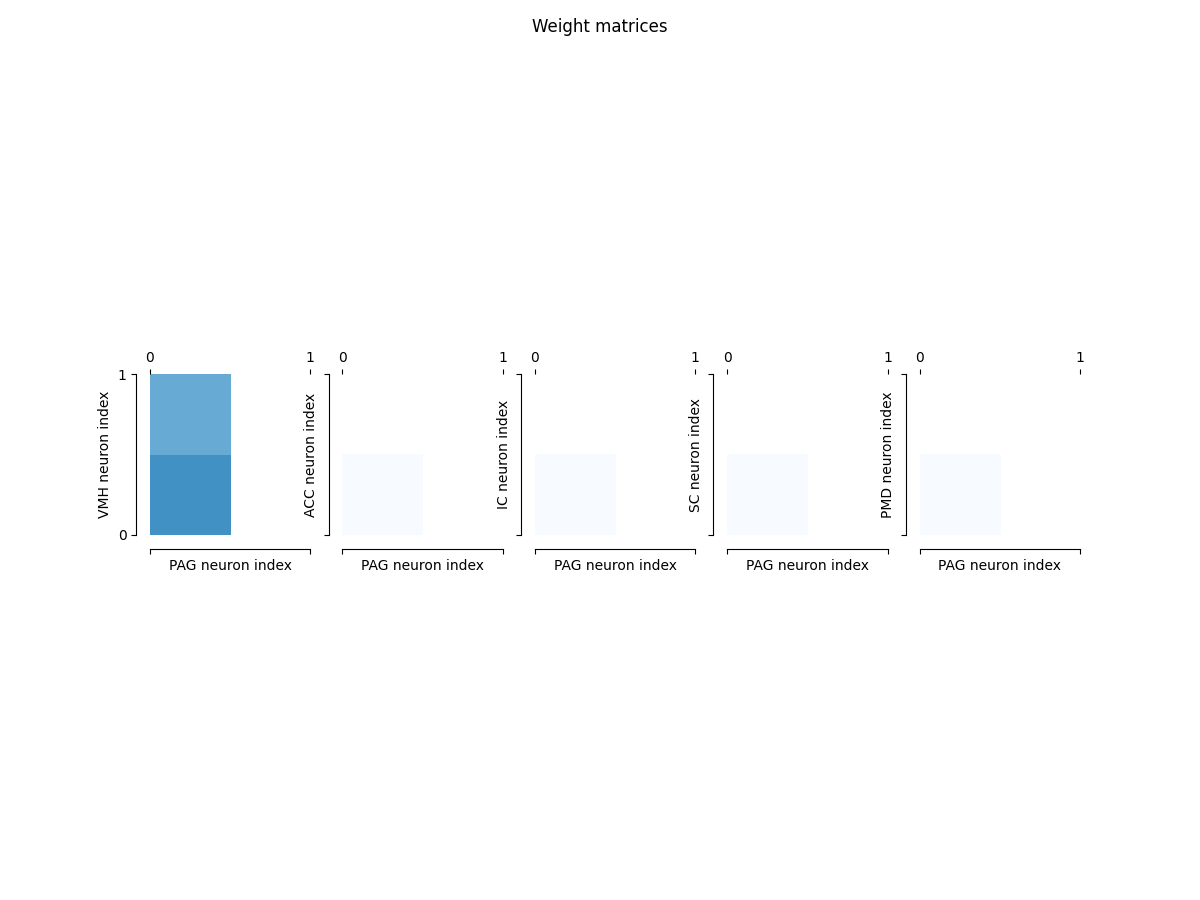
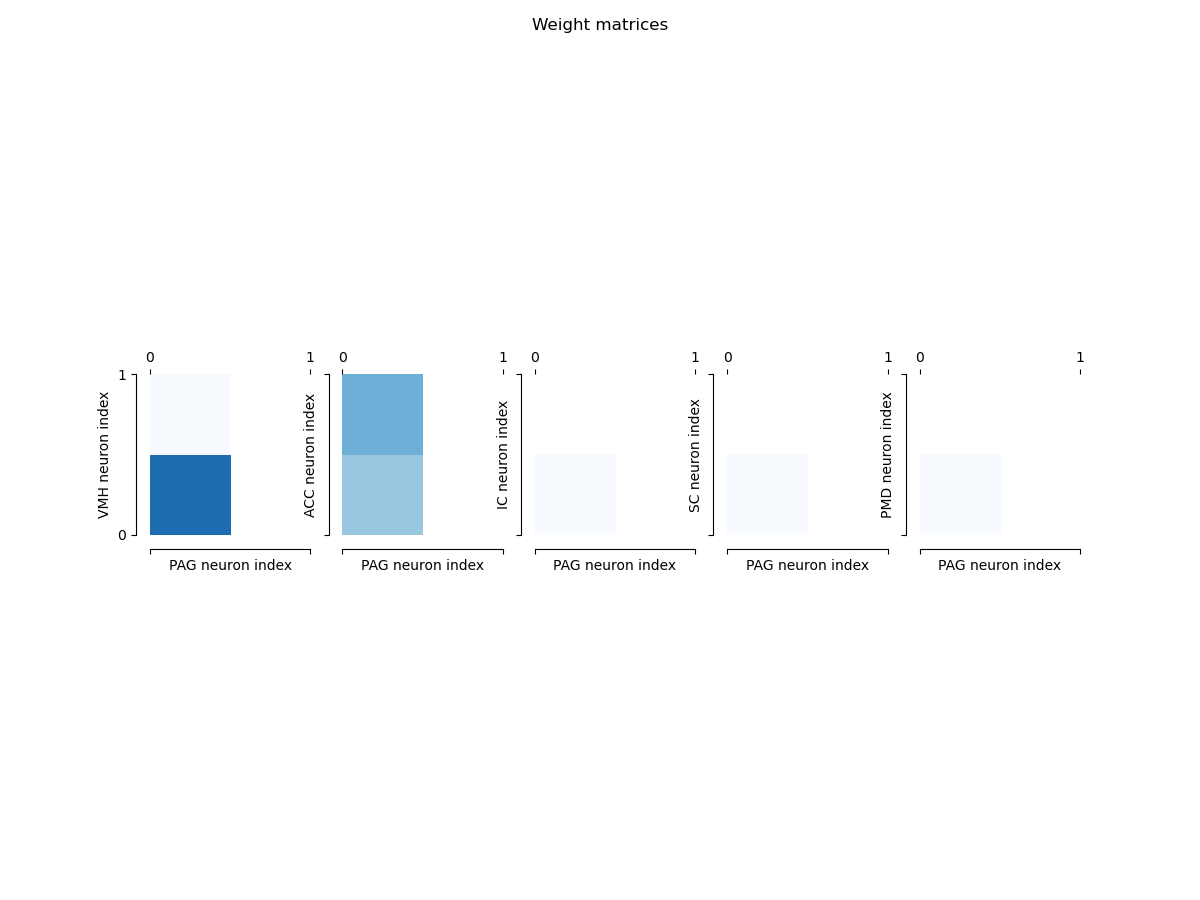
fixed weight gradient issues, glm now fking works

diff --git a/glm.py b/glm.py
@@ -1,6 +1,7 @@
 from matplotlib.pylab import logistic
 import numpy as np
 from loguru import logger
+import copy
 
 class BernoulliGLM():
     def __init__(self, n_neurons_per_group, link_fn='logistic', init_strategy='gaussian', seed=0):
@@ -216,8 +217,8 @@ class BernoulliGLMPyTorch(nn.Module):
         group_stds = torch.zeros(len(self.n_neurons_per_group))
         
         for m, n in enumerate(self.neuron_group_cumsum[:-1]):
-            group_means[m] = torch.mean(self.weights[self.neuron_group_cumsum[m]: self.neuron_group_cumsum[m+1]])
-            group_stds[m] = torch.std(self.weights[self.neuron_group_cumsum[m]: self.neuron_group_cumsum[m+1]])
+            group_means[m] = torch.mean(self.linear.weight.data[0, self.neuron_group_cumsum[m]: self.neuron_group_cumsum[m+1]])
+            group_stds[m] = torch.std(self.linear.weight.data[0, self.neuron_group_cumsum[m]: self.neuron_group_cumsum[m+1]])
         
         return group_means, group_stds
 
@@ -227,11 +228,11 @@ class BernoulliGLMPyTorch(nn.Module):
             y = torch.FloatTensor(y).to(device)
             
         reg_term = 0
-        for i, w in enumerate(self.linear.weight.data[:,0]):
+        for i, w in enumerate(self.linear.weight[0,:]):
             m = self.neuron_group_idx[i]
             reg_term += self.reg_params[m] * torch.pow(w, 2) * torch.sum(
                 torch.pow(
-                    self.linear.weight.data[self.neuron_group_cumsum[m]:self.neuron_group_cumsum[m+1]] - w, 2)
+                    self.linear.weight[0, self.neuron_group_cumsum[m]:self.neuron_group_cumsum[m+1]] - w, 2)
                 )
         # (self.weights @ X + self.bias) @ y.T  - np.sum(np.log(1 + np.exp(self.weights @ X + self.bias)))
         return - (self.linear(X).T @ y - torch.sum(torch.log(1 + torch.exp(self.linear(X))))) + reg_term
@@ -242,24 +243,34 @@ class BernoulliGLMPyTorch(nn.Module):
             y = torch.FloatTensor(y).to(device)
         
         with torch.no_grad():
-            logger.debug(f'Training GLM with PyTorch. Initial log like: {self.calc_log_likelihood(X, y)}, inital loss: {self.calc_log_likelihood_w_reg(X, y)}')
+            logger.debug(f'Training GLM with PyTorch. Initial log like: {self.calc_log_likelihood(X, y)}, inital loss: {self.calc_log_likelihood_w_reg(X, y).cpu().float()}')
             
         optimizer = torch.optim.Adam(self.parameters(), lr=lr)
+        self.best_loss = torch.tensor(np.inf)
         for epoch_i in range(n_iter):
             
-            
             loss = self.calc_log_likelihood_w_reg(X, y)
+            if loss.detach().cpu().float() < self.best_loss:
+                self.best_weight = copy.copy(self.linear.weight.data)
+                self.best_bias = copy.copy(self.linear.bias.data)
+                self.best_loss = loss.detach().cpu().float()
             
             if verbose == 2:
                 logger.debug(f'Step {epoch_i+1}. Log like: {self.calc_log_likelihood(X, y).cpu().float()},  loss: {loss.detach().cpu().float()}')
             elif verbose == 1:
-                if (epoch_i+1) % int(n_iter / 10) == 0:
+                if (epoch_i+1) % int(n_iter / 25) == 0:
                     logger.debug(f'Step {epoch_i+1}. Log like: {self.calc_log_likelihood(X, y).cpu().float()},  loss: {loss.detach().cpu().float()}')
             
             loss.backward()
             optimizer.step()
             optimizer.zero_grad()
-                
+    
+    def load_best_params(self):
+        try:
+            self.linear.weight.data = self.best_weight
+            self.linear.bias.data = self.best_bias
+        except:
+            raise AttributeError('Fit model to data first')
         
 if __name__ == '__main__':
 
@@ -292,4 +303,5 @@ if __name__ == '__main__':
         glm.linear.weight.data = torch.FloatTensor(true_weights).to(device)
         glm.linear.bias.data = torch.FloatTensor([true_bias]).to(device)
         print(glm.calc_log_likelihood(X.T, y.T))
+        
     

diff --git a/run_glm_sim.py b/run_glm_sim.py
@@ -11,7 +11,7 @@ all_timings = []
 all_binned_spikes = []
 brain_regions = [
                 'VMH',
-                # 'ACC',
+                'ACC',
                 # 'IC',
                 # 'SC',
                 # 'PMD'
@@ -68,6 +68,9 @@ else:
     glm = BernoulliGLMPyTorch(
         n_neurons_per_group=np.array([len(df) for df in all_dfs]),
         link_fn='logistic',
-        reg_params=1
+        reg_params=0.01,
         ).to(device)
-    glm.fit(X.T, y.T, n_iter=10000, lr=1e-3, verbose=1)
+    glm.fit(X.T, y.T, n_iter=3000, lr=1e-3, verbose=1)
+    print(glm.calc_group_statistics())
+    glm.load_best_params()
+    print(glm.calc_group_statistics())
